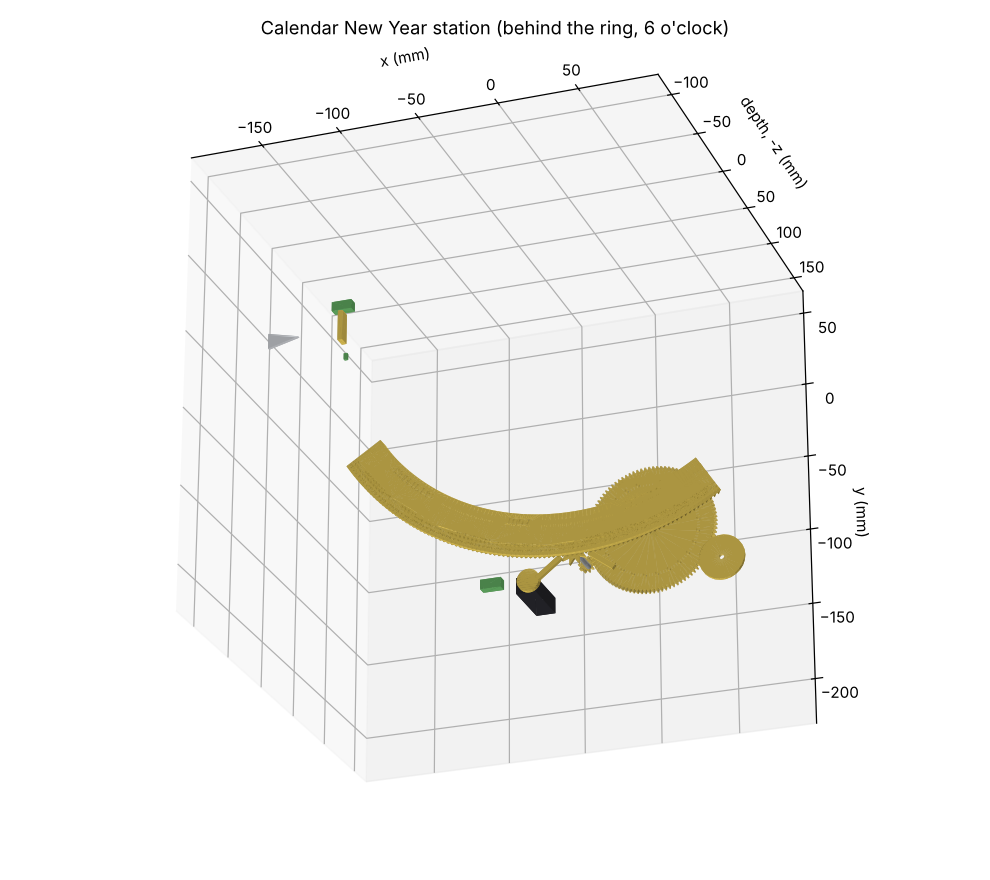
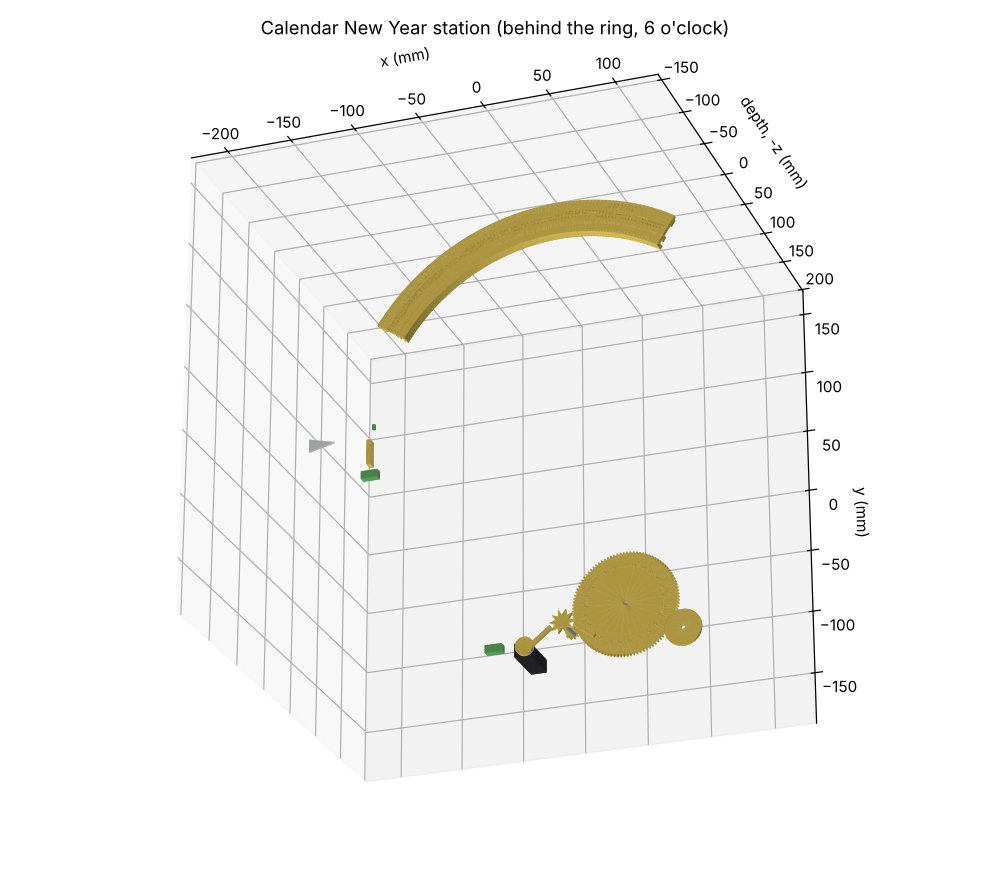
Calendar ring turns clockwise, laid out as the original (Paul's photograph, PR #6)
Paul's photograph of the original beside Apollo: the dates run downward past the arrow
(late September, October, Toussaint, mid-November), so tomorrow is just below it. This is
pattern B: the year runs counter-clockwise round the ring and the ring turns clockwise.
- Geometry: the canonical ring is turned 180° instead of mirrored.
- calendar_logic: the station at 6 o'clock sees the division 92 days ahead of the pointer
  (STATION_OFFSET +92). The year counter advances on 1 October and the sector is set on
  30/31 October, two months before New Year. The 400-year simulation still passes.
- Layout as on the original, outside in: month name (outer edge, tops out, reading
  clockwise), day number, dominical letter (one straight column, numbers right-aligned).
  The month band sits low enough for FÉVRIER/AOÛT/DÉCEMBRE accents.
- E6's pawl stays in place and now pulls the ratchet clockwise.
- reference-notes records what the photograph shows; docs/img/m2/original_calendar_band.jpg
  is a crop (ring band only).

Claude-Session: https://claude.ai/code/session_01Tndyw9tksT61hV2osW21zT

diff --git a/cad/modules/m2_main_dial/calendar.py b/cad/modules/m2_main_dial/calendar.py
@@ -12,9 +12,11 @@ parts, at 1:8 [S: ELS i4: Ø 2.73 m outer, 21 cm wide, 368 divisions → Ø 341,
 - **Movable sector** (1 Jan … 28 Feb), sliding one division in a recess of the face. Its foot goes
   through a slot under its first day; behind the face, a short arm carries the lug one division
   back (where the logic wants it), on a 45°-ish chamfer so the face-down print needs no support.
-- **Dates** (Paul, PR #5: sizes approved): each day reads inwards along its division, dominical
-  letter then day number, 2.2 mm capitals (≈ 9 pt); month names 4 mm (≈ 16 pt) round the inner edge,
-  reading clockwise; "COMMENCEMENT", "DE L'ANNÉE", "COMMUNE" on divisions 0–2 [S: ELS i4] and "29" on
+- **Dates** (Paul, PR #5: sizes approved; layout from Paul's photograph of the original, PR #6): each
+  day reads inwards along its division, day number then dominical letter, 2.2 mm capitals (≈ 9 pt),
+  the letters in one straight column; month names 4 mm (≈ 16 pt) round the outer edge, reading
+  clockwise with their tops outwards; "COMMENCEMENT", "DE L'ANNÉE", "COMMUNE" on divisions 0–2
+  [S: ELS i4] and "29" on
   d = 61, both on the recess floor where the sector uncovers them. Letters A … G from A on
   1 January [S: ELS i4: "Au 1er janvier correspond la lettre A"]; 29 February carries F, as on the
   original (Paul, PR #6), the letter of the Roman bissextile day (the doubled 24 February). All
@@ -27,10 +29,11 @@ parts, at 1:8 [S: ELS i4: Ø 2.73 m outer, 21 cm wide, 368 divisions → Ø 341,
 
 **Pointer on the viewer's left** [S: ELS i4: "le jour qui commence venant alors sur la gauche de
 l'anneau, en face de la flèche"; DA p. 27: Apollo "se tient à la droite du calendrier", the
-calendar's own right, i.e. the viewer's left]. The ring turns counter-clockwise seen from the front;
-ring division d sits at world angle 180° - (d - pointer) x 360/368, and the station (pointer - 92)
-is at 270°, the bottom. The geometry is built in a canonical frame (pointer at 0°, clockwise) and
-mirrored about the vertical plane, which gives exactly that mapping.
+calendar's own right, i.e. the viewer's left]. **The ring turns clockwise** seen from the front, so
+the year runs counter-clockwise round it and tomorrow sits just below the arrow (Paul's photograph of
+the original, PR #6). Ring division d sits at world angle 180° + (d - pointer) x 360/368, and the
+station (pointer + 92) is at 270°, the bottom. The geometry is built in a canonical frame (pointer at
+0°, ring turning clockwise) and turned 180° about the dial axis, which gives exactly that mapping.
 """
 from __future__ import annotations
 
@@ -65,17 +68,22 @@ LAYER_B = (-8.3, -6.0)                                        # deep: star, leve
 RIM_Z = -6.5                                                  # S-track rim face; bumps reach -8.3
 CARRIER = (133.0, 178.0, -10.9, -8.8)                        # r_in, r_out, z0, z1 (in front of the M2 front plate)
 ROLLER_R = SKIRT[0] - BEARINGS["688ZZ"].od / 2               # 136.5
-STATION_ANGLE = L.STATION_OFFSET * DIV                       # -90° (unchanged by the mirror)
-POINTER_ANGLE = 180.0                                        # after the mirror: the viewer's left
+STATION_ANGLE_C = L.STATION_OFFSET * DIV                     # +90° in the canonical frame
+STATION_ANGLE = STATION_ANGLE_C + 180.0 - 360.0              # -90° in the world: 6 o'clock
+POINTER_ANGLE = 180.0                                        # the viewer's left (canonical 0° turned 180°)
 M_C = 0.8                                                    # wheel C module (hidden, light load)
 # dates (flush inlays, depth TEXT_DEPTH): (cap height, stroke, letter spacing) in mm
 TEXT_DEPTH = 0.4
 DAY_TEXT = (2.2, 0.35, 0.35)           # dominical letters and day numbers (Paul, PR #5)
 MONTH_TEXT = (4.0, 0.6, 0.8)           # month names (Paul, PR #5)
 WORD_TEXT = (1.6, 0.3, 0.3)            # "COMMENCEMENT", "DE L'ANNÉE", "COMMUNE": long words in one division
-DAY_R0 = 168.6                         # each day's entry starts here and reads inwards
-DAY_GAP = 0.9                          # between the letter and the number
-MONTH_R = 147.6                        # month-name baseline
+# across the band, outside in, as on the original (Paul's photograph, PR #6): month name, day number,
+# dominical letter (then the saints, left out at 1:8)
+MONTH_R = 163.7                        # month-name baseline, tops outward: capitals to 168.0, accents to 169.0
+LETTER_R0 = 158.0                      # dominical letters: one straight column, reading inwards from here
+DAY_GAP = 0.9                          # between a day number and its letter
+NUMBER_END = LETTER_R0 + DAY_GAP       # day numbers end here (right-aligned on the letter column)
+WORD_R0 = 168.6                        # "COMMENCEMENT" … start at the outer edge (no month name there)
 MONTHS = ("JANVIER", "FÉVRIER", "MARS", "AVRIL", "MAI", "JUIN", "JUILLET", "AOÛT", "SEPTEMBRE", "OCTOBRE",
           "NOVEMBRE", "DÉCEMBRE")
 MONTH_DAYS = (31, 28, 31, 30, 31, 30, 31, 31, 30, 31, 30, 31)
@@ -173,8 +181,8 @@ def ring_and_sector(pointer: int, sector_leap: bool):
 
 
 def world_angle(d: float, pointer: int) -> float:
-    """Angle (degrees, world frame after the mirror) of division d's centre line."""
-    return 180.0 - ring_angle(d, pointer)
+    """Angle (degrees, world frame) of division d's centre line: canonical turned by 180°."""
+    return 180.0 + ring_angle(d, pointer)
 
 
 def _day_of_month(n: int) -> int:
@@ -191,13 +199,15 @@ def date_inlays(pointer: int, sector_leap: bool):
     sector_start = L.SECTOR_COMMON_START - (1 if sector_leap else 0)
     groups = {"face": [], "floor": [], "sector": []}
 
-    def day(group, d, n):                                  # dominical letter, then the day number
+    def entry(group, d, number, letter):                   # day number, then its dominical letter
         th = world_angle(d, pointer)
         h, w, sp = DAY_TEXT
-        letter = "ABCDEFG"[(n - 1) % 7]
-        _, l_len, _ = T.layout(letter, h, w, sp)
-        groups[group].append((T.radial(letter, th, DAY_R0, h, w, sp), w))
-        groups[group].append((T.radial(str(_day_of_month(n)), th, DAY_R0 - l_len - DAY_GAP, h, w, sp), w))
+        _, n_len, _ = T.layout(number, h, w, sp)
+        groups[group].append((T.radial(number, th, NUMBER_END + n_len, h, w, sp), w))
+        groups[group].append((T.radial(letter, th, LETTER_R0, h, w, sp), w))
+
+    def day(group, d, n):
+        entry(group, d, str(_day_of_month(n)), "ABCDEFG"[(n - 1) % 7])
 
     for j in range(L.SECTOR_DAYS):                         # 1 Jan … 28 Feb on the sector
         day("sector", sector_start + j, j + 1)
@@ -205,12 +215,8 @@ def date_inlays(pointer: int, sector_leap: bool):
         day("face", d, d - L.MARCH1 + 60)
     h, w, sp = WORD_TEXT
     for d, word, group in ((0, "COMMENCEMENT", "face"), (1, "DE L'ANNÉE", "face"), (2, "COMMUNE", "floor")):
-        groups[group].append((T.radial(word, world_angle(d, pointer), DAY_R0, h, w, sp), w))
-    h, w, sp = DAY_TEXT                                    # 29 Feb: F, as on the original (Paul, PR #6)
-    _, l_len, _ = T.layout(FEB29_LETTER, h, w, sp)
-    th = world_angle(L.FEB29, pointer)
-    groups["floor"].append((T.radial(FEB29_LETTER, th, DAY_R0, h, w, sp), w))
-    groups["floor"].append((T.radial("29", th, DAY_R0 - l_len - DAY_GAP, h, w, sp), w))
+        groups[group].append((T.radial(word, world_angle(d, pointer), WORD_R0, h, w, sp), w))
+    entry("floor", L.FEB29, "29", FEB29_LETTER)            # 29 Feb: F, as on the original (Paul, PR #6)
     h, w, sp = MONTH_TEXT
     n0 = 1
     for m, (name, days) in enumerate(zip(MONTHS, MONTH_DAYS)):
@@ -287,7 +293,7 @@ def build(pointer: int | None = None, sector_leap: bool = False, dates: bool = T
         pointer = L.initial_state(dt.date(2026, 11, 3)).pointer
     a = Assembly("m2_calendar")
     ring, sector, feats = ring_and_sector(pointer, sector_leap)
-    mirror = lambda shp: shp.mirror(bd.Plane.YZ)          # canonical (pointer at 0°, CW) -> pointer at 180°, CCW
+    mirror = lambda shp: shp.rotate(bd.Axis.Z, 180.0)     # canonical (pointer at 0°) -> world (pointer at 180°)
     sector = mirror(sector)
     feats = {k: mirror(v) for k, v in feats.items()}
     geoms = date_inlays(pointer, sector_leap) if dates else None
@@ -329,11 +335,11 @@ def build(pointer: int | None = None, sector_leap: bool = False, dates: bool = T
             a.allow(f"ring_segment_{k}", f"ring_segment_{j}")
     # carrier with openings at the pointer and the station
     carrier = _wedge(0, 360, CARRIER[0], CARRIER[1], CARRIER[2], CARRIER[3], n=180)
-    for ang_ in (0.0, STATION_ANGLE):
+    for ang_ in (0.0, STATION_ANGLE_C):
         carrier -= _wedge(ang_ - 6, ang_ + 6, BAND[0] - 1, CARRIER[1] + 1, CARRIER[2] - 1, CARRIER[3] + 1, n=8)
-    station_ext = _wedge(STATION_ANGLE - 22, STATION_ANGLE + 22, CARRIER[1] - 2, STATION_R_MAX, CARRIER[2], CARRIER[3],
+    station_ext = _wedge(STATION_ANGLE_C - 22, STATION_ANGLE_C + 22, CARRIER[1] - 2, STATION_R_MAX, CARRIER[2], CARRIER[3],
                          n=24)
-    carrier = carrier + station_ext - _wedge(STATION_ANGLE - 6, STATION_ANGLE + 6, BAND[0] - 1, 190.0,
+    carrier = carrier + station_ext - _wedge(STATION_ANGLE_C - 6, STATION_ANGLE_C + 6, BAND[0] - 1, 190.0,
                                              CARRIER[2] - 1, CARRIER[3] + 1, n=8)
     carrier = mirror(carrier)
     # --- a self-supporting printed frame (Paul, PR #5: the works are printed and independent of the
@@ -452,7 +458,8 @@ def build(pointer: int | None = None, sector_leap: bool = False, dates: bool = T
         return bd.Box(L_, w, t, align=(bd.Align.MIN, bd.Align.CENTER, bd.Align.MIN)).rotate(bd.Axis.Z, ang_).moved(
             bd.Location((p0[0], p0[1], z0)))
     pawl = link(P(184.0, -7.0), P(171.0, -2.5))
-    a.add("E6_pawl", pawl, group="station", note="one crank turn = one ratchet tooth = one division")
+    a.add("E6_pawl", pawl, group="station",
+          note="pulls the ring clockwise: one crank turn = one ratchet tooth = one division")
     jumper = link(P(184.0, 8.0), P(171.0, 3.5))
     a.add("ring_jumper", jumper, group="station", note="detent between strokes")
     for nm in ("E6_pawl", "ring_jumper"):          # they rest in the ratchet's tooth gaps by design
@@ -467,7 +474,7 @@ def build(pointer: int | None = None, sector_leap: bool = False, dates: bool = T
         for k in range(4):
             a.allow(nm, f"carrier_segment_{k}")
 
-    # ---------------------------------------------------------------- pointer side (9 o'clock: built at 0°, mirrored)
+    # ---------------------------------------------------------------- pointer side (9 o'clock: built at 0°, turned 180°)
     lever = bd.Box(3.0, 20.0, RIM_Z - (CARRIER[2] - 3.0), align=(bd.Align.CENTER, bd.Align.MIN, bd.Align.MIN)).moved(
         bd.Location(((TRACK_S[0] + TRACK_S[1]) / 2, -2.0, CARRIER[2] - 3.0)))
     a.add("stop_lever", mirror(lever), group="pointer", print_up=(1, 0, 0),

diff --git a/cad/modules/m2_main_dial/calendar_logic.py b/cad/modules/m2_main_dial/calendar_logic.py
@@ -17,12 +17,16 @@ pointer is held up (Ungerer's projection S):
     common position (so the New Year jump is 4 divisions), at d = 1 when it is in its leap position
     (the jump is 3). The sector's position alone decides 3 or 4: no separate cam is needed.
 
-The **station** at the bottom of the ring sees the division ``pointer + STATION_OFFSET``:
+The **station** at the bottom of the ring sees the division ``pointer + STATION_OFFSET``. The ring
+turns clockwise seen from the front (Paul's photograph of the original, PR #6: tomorrow's date is
+just below Apollo's arrow), so a division leaving the arrow at 9 o'clock reaches the station at
+6 o'clock three quarters of a turn later: the station sees the division that will reach the arrow
+in 92 days.
   - a pin on the ring at d = COUNTER_PIN advances the year counter, wheel C (100 positions, one per
-    year), once per turn, in April. A pin on C advances the satellite (4 positions, one per
+    year), once per turn, on 1 October. A pin on C advances the satellite (4 positions, one per
     century) when C passes from 99 to 0;
-  - later in the same turn (May), the sector's tab passes the setter finger, which puts the sector
-    in the leap or common position for the year to come, read from C and the satellite.
+  - later in the same turn (30 or 31 October), the sector's tab passes the setter finger, which puts
+    the sector in the leap or common position for the year to come, read from C and the satellite.
 
 ``simulate`` runs the mechanism day by day and reports every day on which the ring shows the wrong
 date. The test runs 2026–2426, which covers 2100, 2200, 2300 (not leap) and 2400 (leap).
@@ -38,7 +42,7 @@ SECTOR_COMMON_START = 3
 SECTOR_DAYS = 59
 FEB29 = 61
 MARCH1 = 62
-STATION_OFFSET = -92          # the station is about a quarter turn (90°) after the pointer
+STATION_OFFSET = 92           # the station (6 o'clock) sees the division 92 days ahead of the pointer
 COUNTER_PIN = 0               # ring division carrying the counter pin
 SECTOR_TAB = 30               # sector division carrying the setter tab (mid-sector)
 S_BUMPS = (0, 1)              # fixed projection S
@@ -121,7 +125,7 @@ def initial_state(date: dt.date) -> Mechanism:
         d = start + (date - dt.date(y, 1, 1)).days if not (date.month == 2 and date.day == 29) else FEB29
     else:
         d = MARCH1 + (date - dt.date(y, 3, 1)).days
-    # wheel C shows the year the sector will next be set for: this year until the April advance
+    # wheel C shows the year the sector will next be set for: this year until the October advance
     # has happened (pin seen when the pointer reaches COUNTER_PIN - STATION_OFFSET), then next year
     pin_pointer = (COUNTER_PIN - STATION_OFFSET) % N
     target = y + 1 if d >= pin_pointer else y

diff --git a/cad/tests/test_calendar_ring.py b/cad/tests/test_calendar_ring.py
@@ -39,15 +39,27 @@ def test_dates_stay_on_the_face_and_in_their_bands():
     h, w, _ = CAL.DAY_TEXT
     assert h == 2.2 and CAL.MONTH_TEXT[0] == 4.0           # the approved sizes
     # each day's entry fits its division: glyph height plus stroke under the division width
-    assert h + w < 2 * math.pi * (CAL.DAY_R0 - 6.0) / L.N
+    assert h + w < 2 * math.pi * (CAL.LETTER_R0 - 2.0) / L.N
 
 
 def test_first_of_january_is_A_and_the_pointer_reads_left_to_right():
     # ELS i4: "Au 1er janvier correspond la lettre A"; the day at the pointer (viewer's left) reads
     # inwards, i.e. left to right
-    lines = T.radial("A", CAL.world_angle(L.SECTOR_COMMON_START, L.SECTOR_COMMON_START), CAL.DAY_R0, 2.2, 0.35, 0.35)
+    lines = T.radial("A", CAL.world_angle(L.SECTOR_COMMON_START, L.SECTOR_COMMON_START), CAL.LETTER_R0, 2.2, 0.35, 0.35)
     xs = [x for line in lines for x, _ in line]
-    assert max(xs) < -CAL.DAY_R0 + 2.0 and min(xs) >= -CAL.DAY_R0 - 1e-6
+    assert max(xs) < -CAL.LETTER_R0 + 2.0 and min(xs) >= -CAL.LETTER_R0 - 1e-6
+
+
+def test_tomorrow_is_below_the_arrow_and_the_station_at_six():
+    # Paul's photograph of the original (PR #6): the year runs counter-clockwise round the ring, which
+    # turns clockwise, so tomorrow is just below Apollo's arrow (pattern B)
+    p = 100
+    assert CAL.world_angle(p, p) == pytest.approx(180.0)
+    assert math.sin(math.radians(CAL.world_angle(p + 1, p))) < 0           # tomorrow: below the arrow
+    assert math.sin(math.radians(CAL.world_angle(p - 1, p))) > 0           # yesterday: above it
+    # the station at 6 o'clock sees the division 92 days ahead of the pointer
+    assert CAL.world_angle(p + L.STATION_OFFSET, p) % 360 == pytest.approx(CAL.STATION_ANGLE % 360)
+    assert CAL.STATION_ANGLE == pytest.approx(-90.0)
 
 
 def test_29_february_carries_F():
@@ -56,9 +68,9 @@ def test_29_february_carries_F():
     g = CAL.date_inlays(0, False)["floor"]
     th = math.radians(CAL.world_angle(L.FEB29, 0))
     u = (math.cos(th), math.sin(th))
-    # the letter sits at the outer end of division 61, where every other day's letter sits
+    # the letter sits in the letter column of division 61, like every other day's letter
     near = [p for p in getattr(g, "geoms", [g]) if p.distance(
-        __import__("shapely.geometry", fromlist=["Point"]).Point(u[0] * (CAL.DAY_R0 - 0.6), u[1] * (CAL.DAY_R0 - 0.6))) < 0.5]
+        __import__("shapely.geometry", fromlist=["Point"]).Point(u[0] * (CAL.LETTER_R0 - 0.6), u[1] * (CAL.LETTER_R0 - 0.6))) < 0.5]
     assert near
 
 

diff --git a/docs/m2-design.md b/docs/m2-design.md
@@ -192,16 +192,20 @@ blocks (MR85ZZ) and ends in a keyed dog coupling at x = 135, facing the equation
   the viewer's left: DA writes "à la droite du spectateur" when it means the viewer's right.
 - ELS confirms it: "le jour qui commence venant alors sur la gauche de l'anneau, en face de la
   flèche" [S: ELS i4].
-- The first draft had the pointer on the right. The model is now mirrored, so the pointer is at
-  180°.
-- **Direction [D].** The year reads clockwise round the ring as seen from the front: today at the
-  left, early April at the top when the pointer is on 1 January. To bring tomorrow to the pointer, the
-  ring turns **counter-clockwise**, so tomorrow sits just above the arrow. Confirm on a photo [TBD].
-  If it is the other way (tomorrow just below the arrow), the ring is mirrored again and the New Year
-  station, which acts 92 divisions after the pointer *in the direction of travel*, moves or has its
-  offset re-verified by the logic simulation. The change stays inside `calendar.py` and
-  `calendar_logic.py`.
-- The station stays at 6 o'clock, still 92 divisions after the pointer.
+- The first draft had the pointer on the right. It is now at 180°.
+- **Direction: the ring turns clockwise** [S: Paul's photograph of the original, PR #6].
+  - Down the left side, the photograph shows the dates running from late September through
+    October into November. Apollo's hand is at about 1 November.
+  - So the year runs **counter-clockwise** round the ring, and **tomorrow is just below the
+    arrow**.
+  - The first draft of PR #6 had it the other way [D, unsourced]. The model is now built in its
+    canonical frame and turned 180°.
+  - The crop is `docs/img/m2/original_calendar_band.jpg`.
+- **The station stays at 6 o'clock.** With the ring turning clockwise, a division leaving the arrow
+  reaches it three quarters of a turn later. So the station sees the division **92 days ahead of
+  the pointer** (`STATION_OFFSET = +92`), and the year counter and setter act in October (below).
+- **E6's pawl** is unchanged in place; with the ratchet now driven clockwise, it pulls the tooth
+  instead of pushing it.
 - The pointer's readers (stop lever, stop switch, 1 March witness) reach back through a window in
   the M2 front plate at 168°–192°, r 140–177 mm.
 
@@ -241,15 +245,16 @@ blocks (MR85ZZ) and ends in a keyed dog coupling at x = 135, facing the equation
        (`cad/tests/test_calendar_ring.py`).
 
 **Year counter (station at 6 o'clock, fixed on the carrier):**
-- **Wheel C** (100 positions, one per year; 100-tooth gear at module 0.8) is advanced each April by
-  a pin on the ring at d = 0. The pin pushes a 10-point star, and a 10-tooth pinion on the star's
+- **Wheel C** (100 positions, one per year; 100-tooth gear at module 0.8) is advanced each year on
+  1 October by a pin on the ring at d = 0. The pin pushes a 10-point star, and a 10-tooth pinion on the star's
   arbor turns C. This is Ungerer's star-and-rake principle with a fixed counter.
 - **24 leap bumps** sit at positions 4 … 96.
 - **A 4-position satellite**, turned a quarter turn per century by a pin on C, supplies the leap
   bump at x00 when x00 is divisible by 400.
 - **The follower** reads C and the satellite.
-- **In May the sector's tab passes the setter**, a railway-switch guide steered by the follower. It
-  puts the sector in the leap or common position for the coming year.
+- **On 30 or 31 October the sector's tab passes the setter**, a railway-switch guide steered by the
+  follower. It puts the sector in the leap or common position for the coming year, two months
+  before it reaches the arrow.
 - Everything acts between 1 March and 31 December, so it never disturbs a date being shown (the
   test checks the timing).
 
@@ -262,7 +267,8 @@ blocks (MR85ZZ) and ends in a keyed dog coupling at x = 135, facing the equation
 | Counter pin | 156.25 | full depth | 10-point star at the station (deep layer) |
 | Sector tab | 159–162 | shallow layer only | setter at the station. It passes over the star. |
 
-- **Station position.** The station sits 92 divisions (90°) after the pointer. It and wheel C are
+- **Station position.** The station sits at 6 o'clock and sees the division 92 days ahead of the
+  pointer. It and wheel C are
   kept at least 195 mm below the dial centre, about 18 mm above the floor [E].
 - **Setting** (architecture §7): turn the ring to the date (lift the jumper), set the sector, and
   set wheel C and the satellite to the year, as `calendar_logic.initial_state` does.
@@ -424,11 +430,21 @@ What fits on the ring [D]:
   same on every machine.
 - **Inlay.** Black on gold, flush, 0.4 mm deep. Each ring segment and the sector is a two-body
   print (`ring_<k>.3mf`, `sector.3mf`), face down, 0.2 mm nozzle.
-- **Each day:** the dominical letter, then the day number, reading inwards along its division at
-  2.2 mm (stroke 0.35 mm). The letters run A … G from A on 1 January [S: ELS i4: "Au 1er janvier
-  correspond la lettre A"].
-- **Months:** names at 4 mm (stroke 0.6 mm) round the inner edge, reading clockwise. JANVIER and
-  FÉVRIER are on the sector.
+- **Layout across the band, outside in, as on the original** [S: Paul's photograph, PR #6]: month
+  name, day number, dominical letter. The saints' names that follow on the original are left out at
+  1:8.
+- **Each day:** the day number, then its dominical letter, reading inwards along its division at
+  2.2 mm (stroke 0.35 mm). The letters form one straight column (r 158.0 inwards) and the numbers
+  are right-aligned on it.
+  - The letters run A … G from A on 1 January [S: ELS i4: "Au 1er janvier correspond la lettre A"].
+    The photograph agrees: 15 Oct = A, 22 Oct = A.
+- **Months:** names at 4 mm (stroke 0.6 mm) round the **outer edge**, reading clockwise with their
+  tops outward, as on the original. JANVIER and FÉVRIER are on the sector.
+  - At the bottom of the ring they read upside down, as on any ring.
+  - Accents (FÉVRIER, AOÛT, DÉCEMBRE) stay inside the sector's edge.
+- **Not copied (yet):** on the original the dominical letters are light on a dark column. That
+  would be an easy variant of the two-colour inlay (a black stripe with the letters left gold); see
+  §11.
 - **Divisions 0–2:** "COMMENCEMENT", "DE L'ANNÉE", "COMMUNE" at 1.6 mm, the longest words that fit
   one division radially [S: ELS i4 for the words].
 - **On the recess floor:** "COMMUNE" (d = 2) and "F 29" (d = 61) sit on the floor, where the sector
@@ -438,8 +454,12 @@ What fits on the ring [D]:
 - **Language and colour.** The language is French, as in the sources' quotations of the ring. The
   black letter colour is [E]; DA gives only the gold ground.
 
-<p align="center"><img src="img/m2/calendar_dates.png" width="760" alt="Dates at the pointer (3 Nov) and at the start of the year: black on the ring face, red on the recess floor, blue on the sector"></p>
+<p align="center"><img src="img/m2/calendar_dates.png" width="700" alt="Model: dates at the pointer (3 Nov) and at the start of the year: black on the ring face, red on the recess floor, blue on the sector"> <img src="img/m2/original_calendar_band.jpg" width="200" alt="The original beside Apollo (Paul's photograph, about 1 Nov 2026): dates run downward past the arrow"></p>
 
-**Small checks that need a photo, not a decision:**
-- which way the ring turns (§6 [D]: counter-clockwise);
-- the weekday carousel's axis (§3 item 2; M7 design).
+**Settled from Paul's photograph (PR #6):** the ring turns clockwise (tomorrow below the arrow),
+and the layout across the band is month, day, letter.
+
+**Option, Paul's call:** dominical letters light on a dark column, as on the original, instead of
+black letters on gold. It costs no extra parts, and the letter column stays legible.
+
+**Still to confirm on a photo, not a decision:** the weekday carousel's axis (§3 item 2; M7 design).

diff --git a/docs/reference-notes.md b/docs/reference-notes.md
@@ -716,6 +716,26 @@ this pair of hands.
   agrees with the traditional reckoning, in which the intercalated day is a doubled 24 February,
   letter F [D: 24 Feb is day 55 and (55 − 1) mod 7 = 5, which is F].
 
+**Calendar ring as seen today** [S: Paul's photograph of the original, IMG_9952, taken about
+1 November 2026, shared in PR #6; crop in `docs/img/m2/original_calendar_band.jpg`]
+- **Direction.** Down the left side the dates run from late September (N.D. de la Merci, s. Cyprien,
+  s. Michel) through OCTOBRE to mid-November (Toussaint, Les Trépassés, s. Martin, s. Elisabeth).
+  Apollo's hand is at about 1 November, the day of the photograph.
+  - So the year runs **counter-clockwise** round the ring, the ring **turns clockwise**, and
+    tomorrow is **just below** the arrow.
+  - This settles the question ELS and DA leave open.
+- **Layout across the band, outside in:**
+  1. the month name, along the outer edge, reading clockwise with its tops outward (OCTOBRE,
+     SEPTEMBRE);
+  2. the day number, reading inwards;
+  3. the dominical letter, light letters in a dark column;
+  4. the saint's name.
+  Fixed and movable feasts are labelled in small black boxes (for example "Quatre Temps").
+- **Dominical letters** read 15 Oct = A, 22 Oct = A, … This agrees with A on 1 January [ELS i4]
+  [D: 15 Oct is day 288 of a common year, and (288 − 1) mod 7 = 0, which is A].
+- **Main dial:** XII at the top, numerals rising clockwise; "TEMPS APPARENT" in gold near the top;
+  the sunrise and sunset hands are labelled "LEVER DU SOLEIL" (left) and "COUCHER DU SOLEIL" (right).
+
 **Leap day [i4]** (the most original part, per ELS):
 - 1 January – 28 February are painted on a movable sector that can advance or retreat one division.
 - Three divisions after 31 December read "COMMENCEMENT DE L'ANNÉE commune". In leap years the
